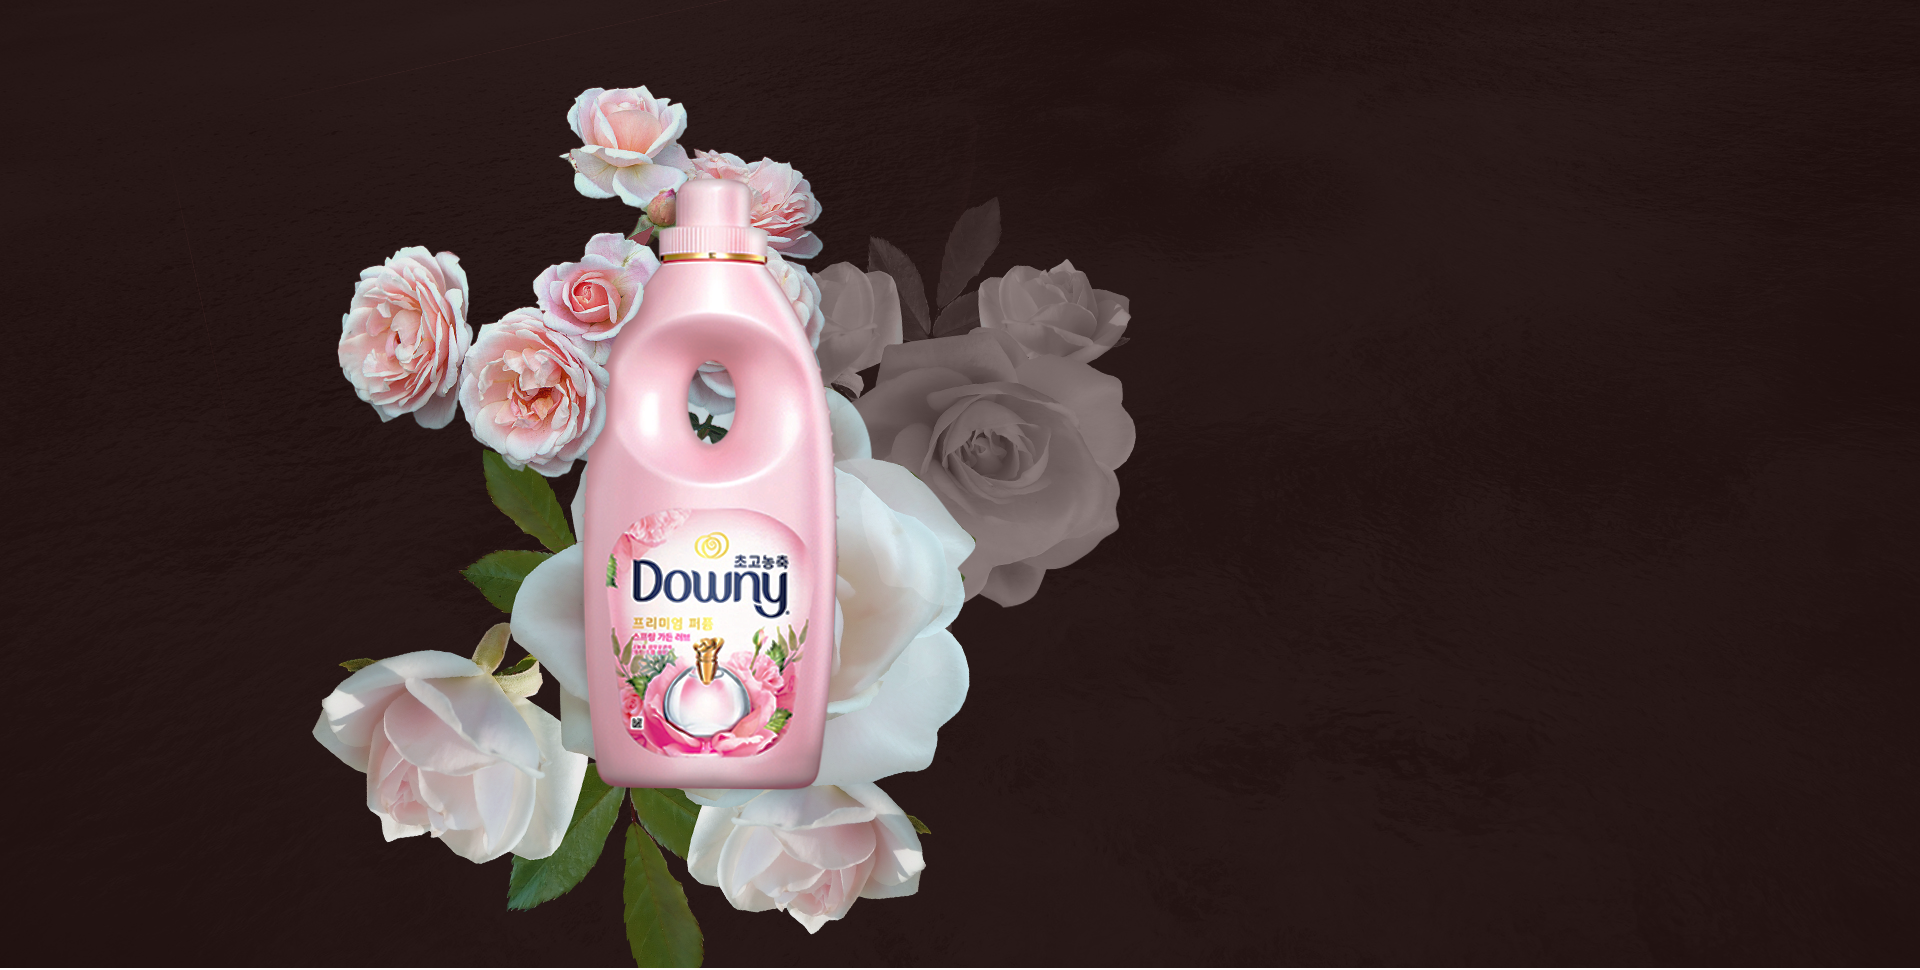
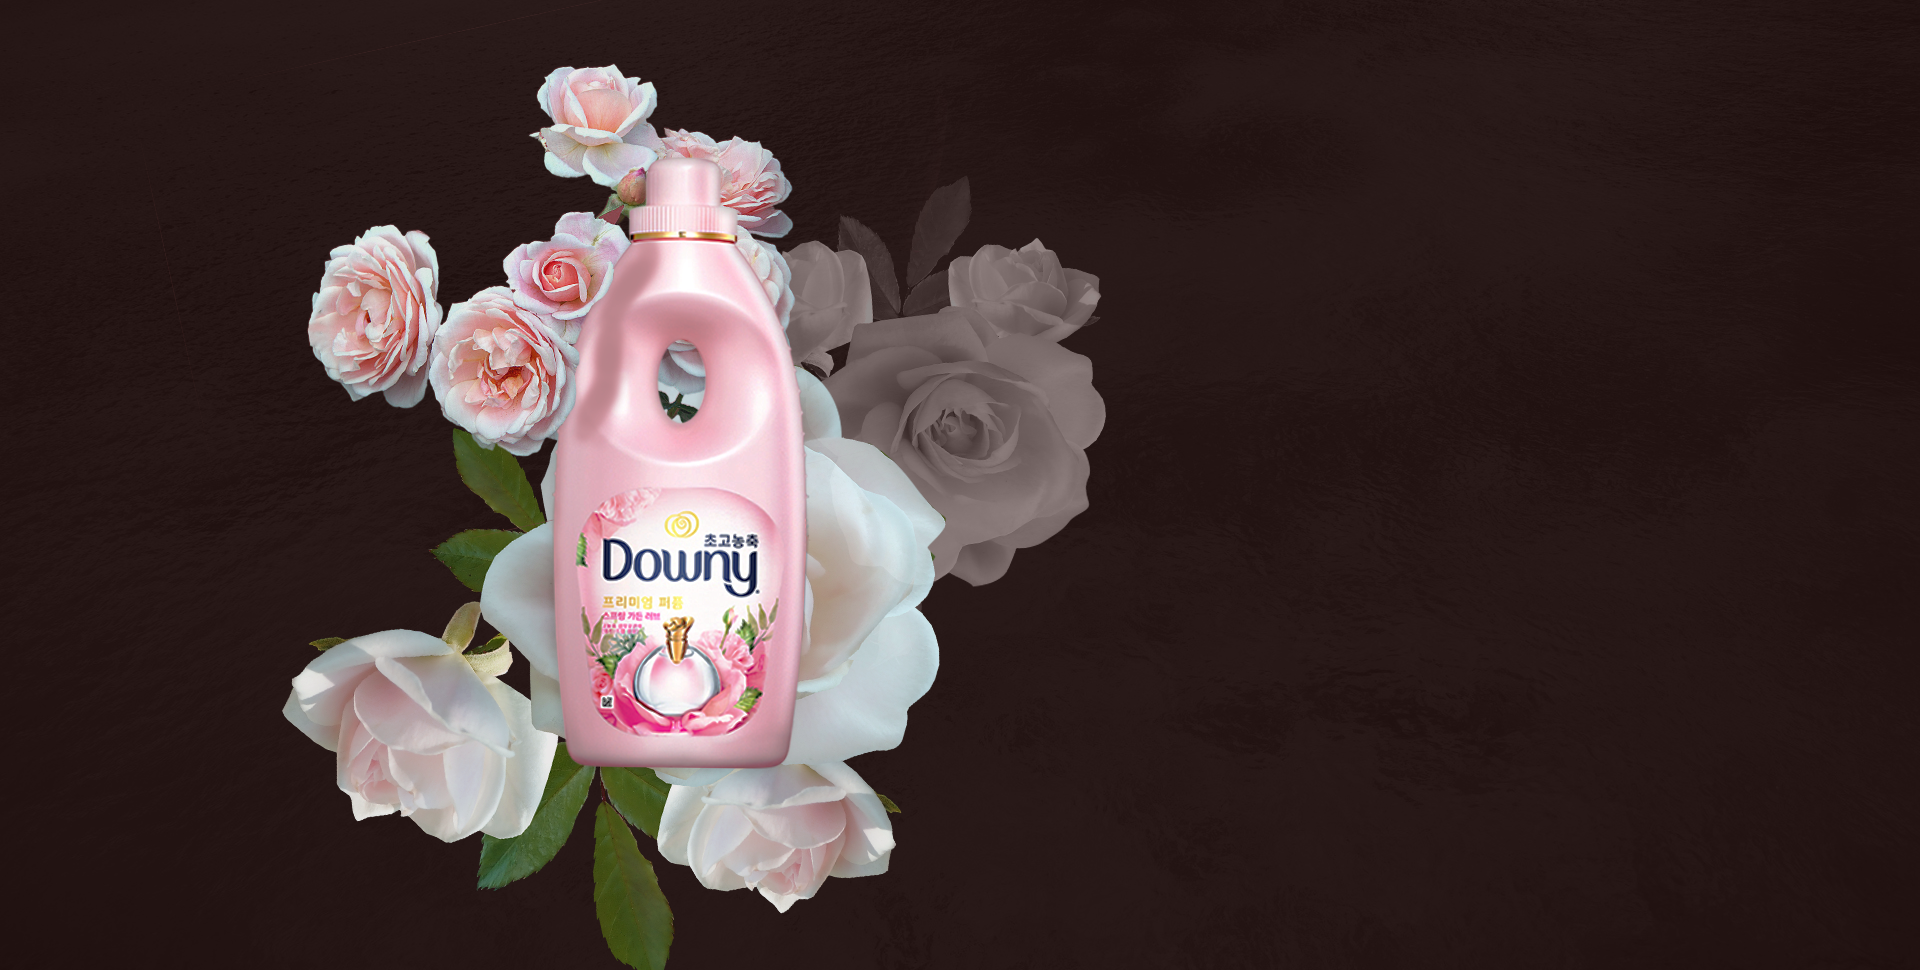
Add files via upload

Changed region(s): [[0.0, 0.0619, 1.0, 1.0]]

diff --git a/index.html b/index.html
@@ -294,6 +294,7 @@
             <!--footer-->
             <footer id="footer">
                <div class="inner">
+                   <!--fMenu-->
                     <ul class="fMenu cf">
                         <li><a href="#">회사소개</a></li>
                         <li><a href="#">Contact Us</a></li>
@@ -301,7 +302,9 @@
                         <li><a href="#">이용약관</a></li>
                         <li><a href="#">Sitemap</a></li>
                     </ul>
+                   <!--fMenu-->
 
+                    <!--fInfo-->
                     <div class="fInfo cf">
                         <p>
                             <span>한국피앤지판매유한회사</span>
@@ -312,6 +315,13 @@
                         </p>
                         <p>Copyright 2021. jeong dahye. All rights reserved.</p>
                     </div>
+                    <!--fInfo-->
+                    
+                    <!--fSearch-->
+                    <div class="fSearch">
+                        <a href="#">검색창링크버튼</a>
+                    </div>
+                    <!--fSearch-->
                </div>
             </footer>
             <!--footer-->

diff --git a/css/include.css b/css/include.css
@@ -24,6 +24,7 @@
 .logo{
     display:inline-block;
     margin-right:43px;
+    margin-top:30px;
 }
 .logo a img{
     display:block;
@@ -31,6 +32,7 @@
     margin-top:10px;
 }
 
+/*footer*/
 #footer{
     background:#A9A3B0;
     padding:60px 0;
@@ -38,8 +40,12 @@
 #footer li{
     float:left;
 }
+#footer .inner{
+    background:url(../images/common/fLogo.png) no-repeat 95% top;
+    position:relative;
+}
 .fMenu{
-    margin:30px 0;
+    margin-bottom:50px;    
 }
 .fMenu li::after{
     content:"";
@@ -55,11 +61,27 @@
 }
 .fInfo{
     font-weight:200;
+    font-size:14px;
 }
 
 .fInfo span{
-    margin-right:30px;
+    margin-right:20px;
 }
 .fInfo p{
     margin-top:30px;
+}
+.fSearch{
+    width:180px;
+    height:30px;
+    background:#E8E6FB;
+    text-indent:-9999px;
+    position:absolute;
+    right:0;
+    bottom:0px;
+    
+}
+.fSearch a{
+    display:block;
+    width:100%;
+    background:url(../images/common/searchIcoB.png) no-repeat 95% 70%;
 }

diff --git a/css/main.css b/css/main.css
@@ -3,17 +3,22 @@
 /*mainSlider*/
 .mainSlider{
     width:100%;
+    height:970px;
     overflow:hidden;
     position:relative;
     color:#fff;
     text-align:right;
 }
-.mainSlider img{}
+.mainSlider img{
+    position:absolute;
+    left:50%;
+    margin-left:-960px;
+}
 
 .sliderTxt{
     position:absolute;
     right:50%;
-    margin-right:-600px;
+    margin-right:-560px;
     top:375px;
 }
 .mainSlider h3{
